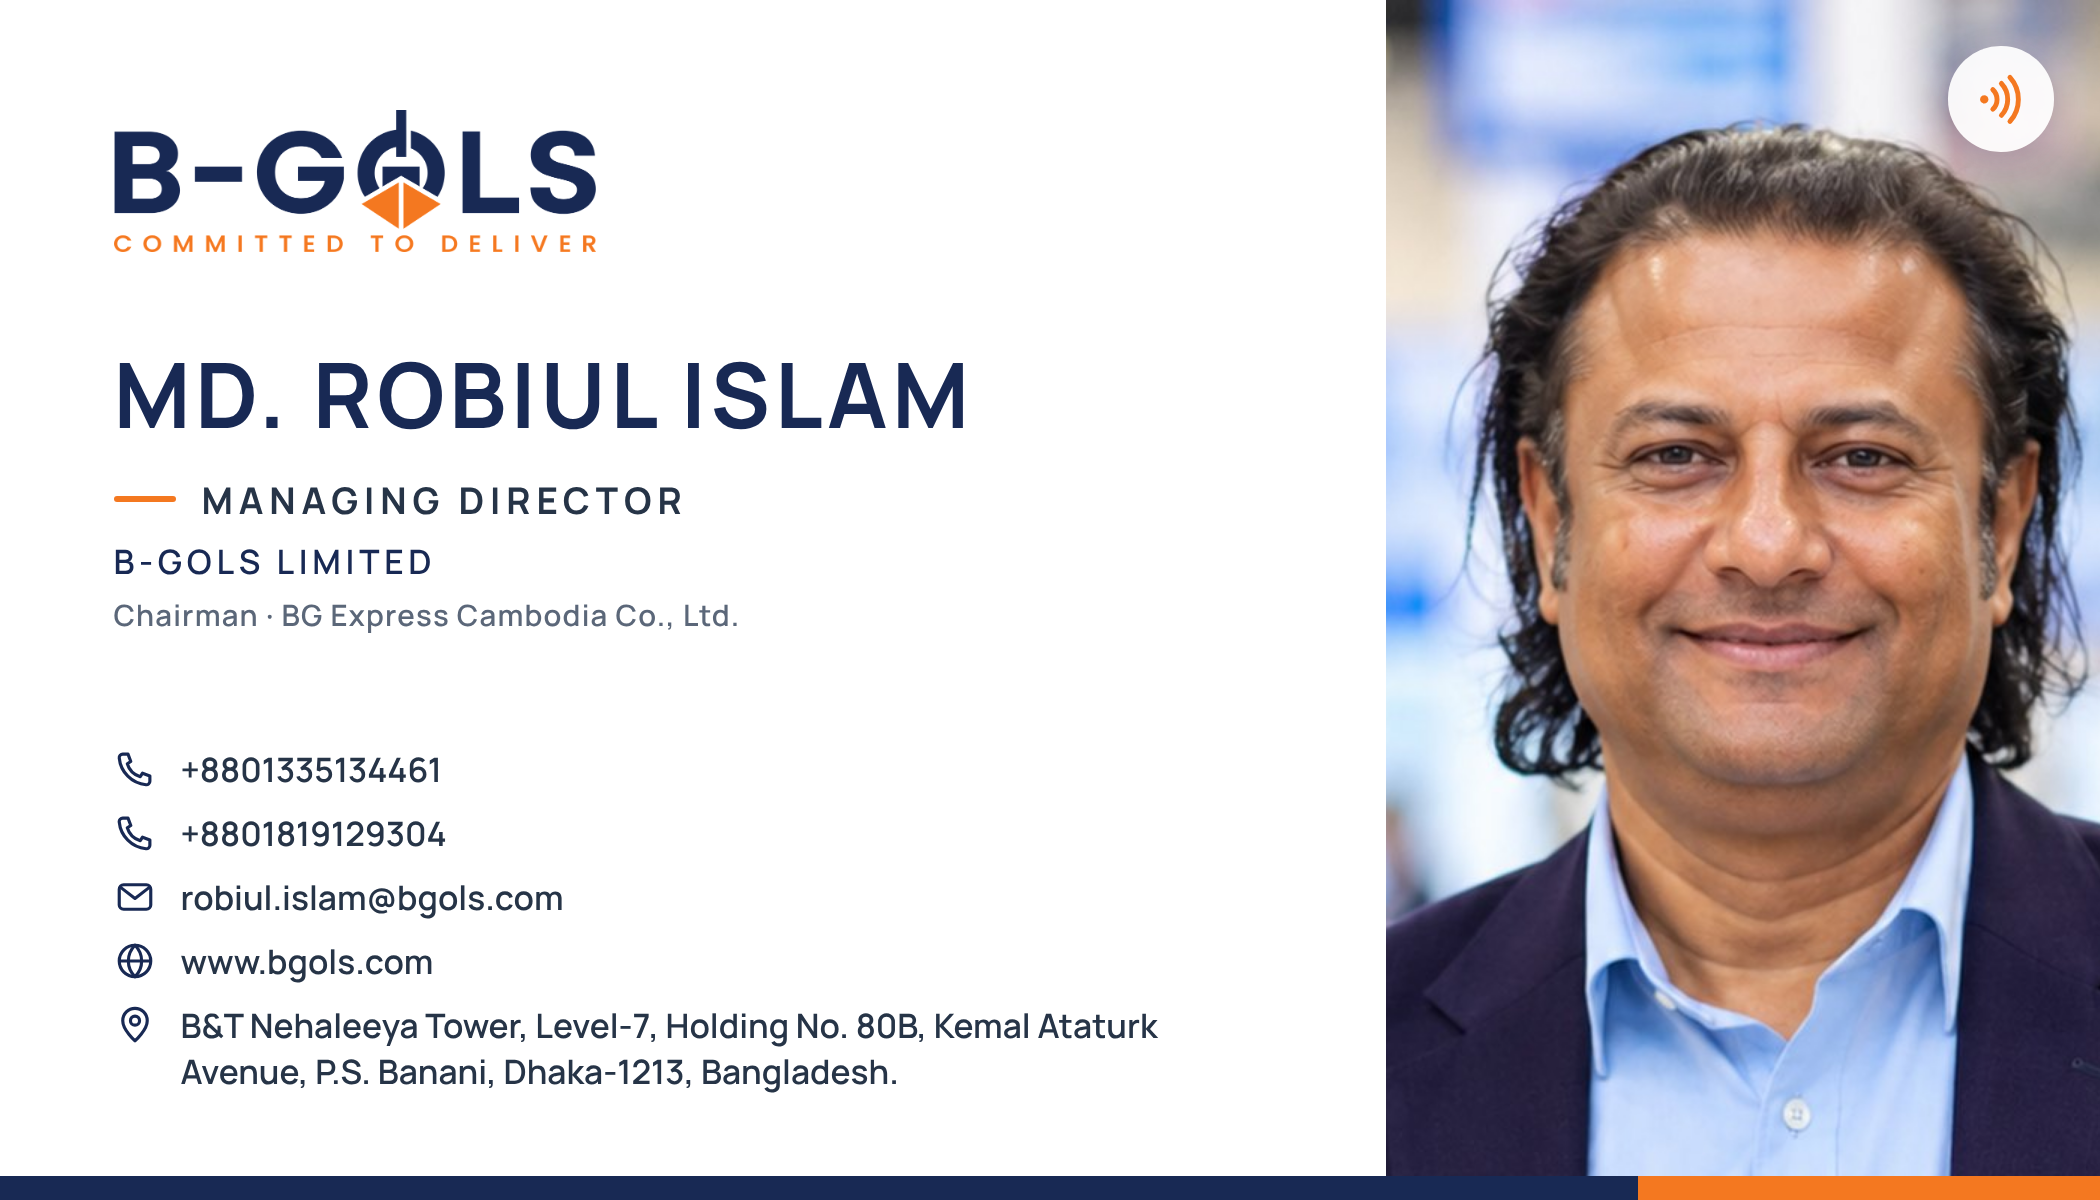
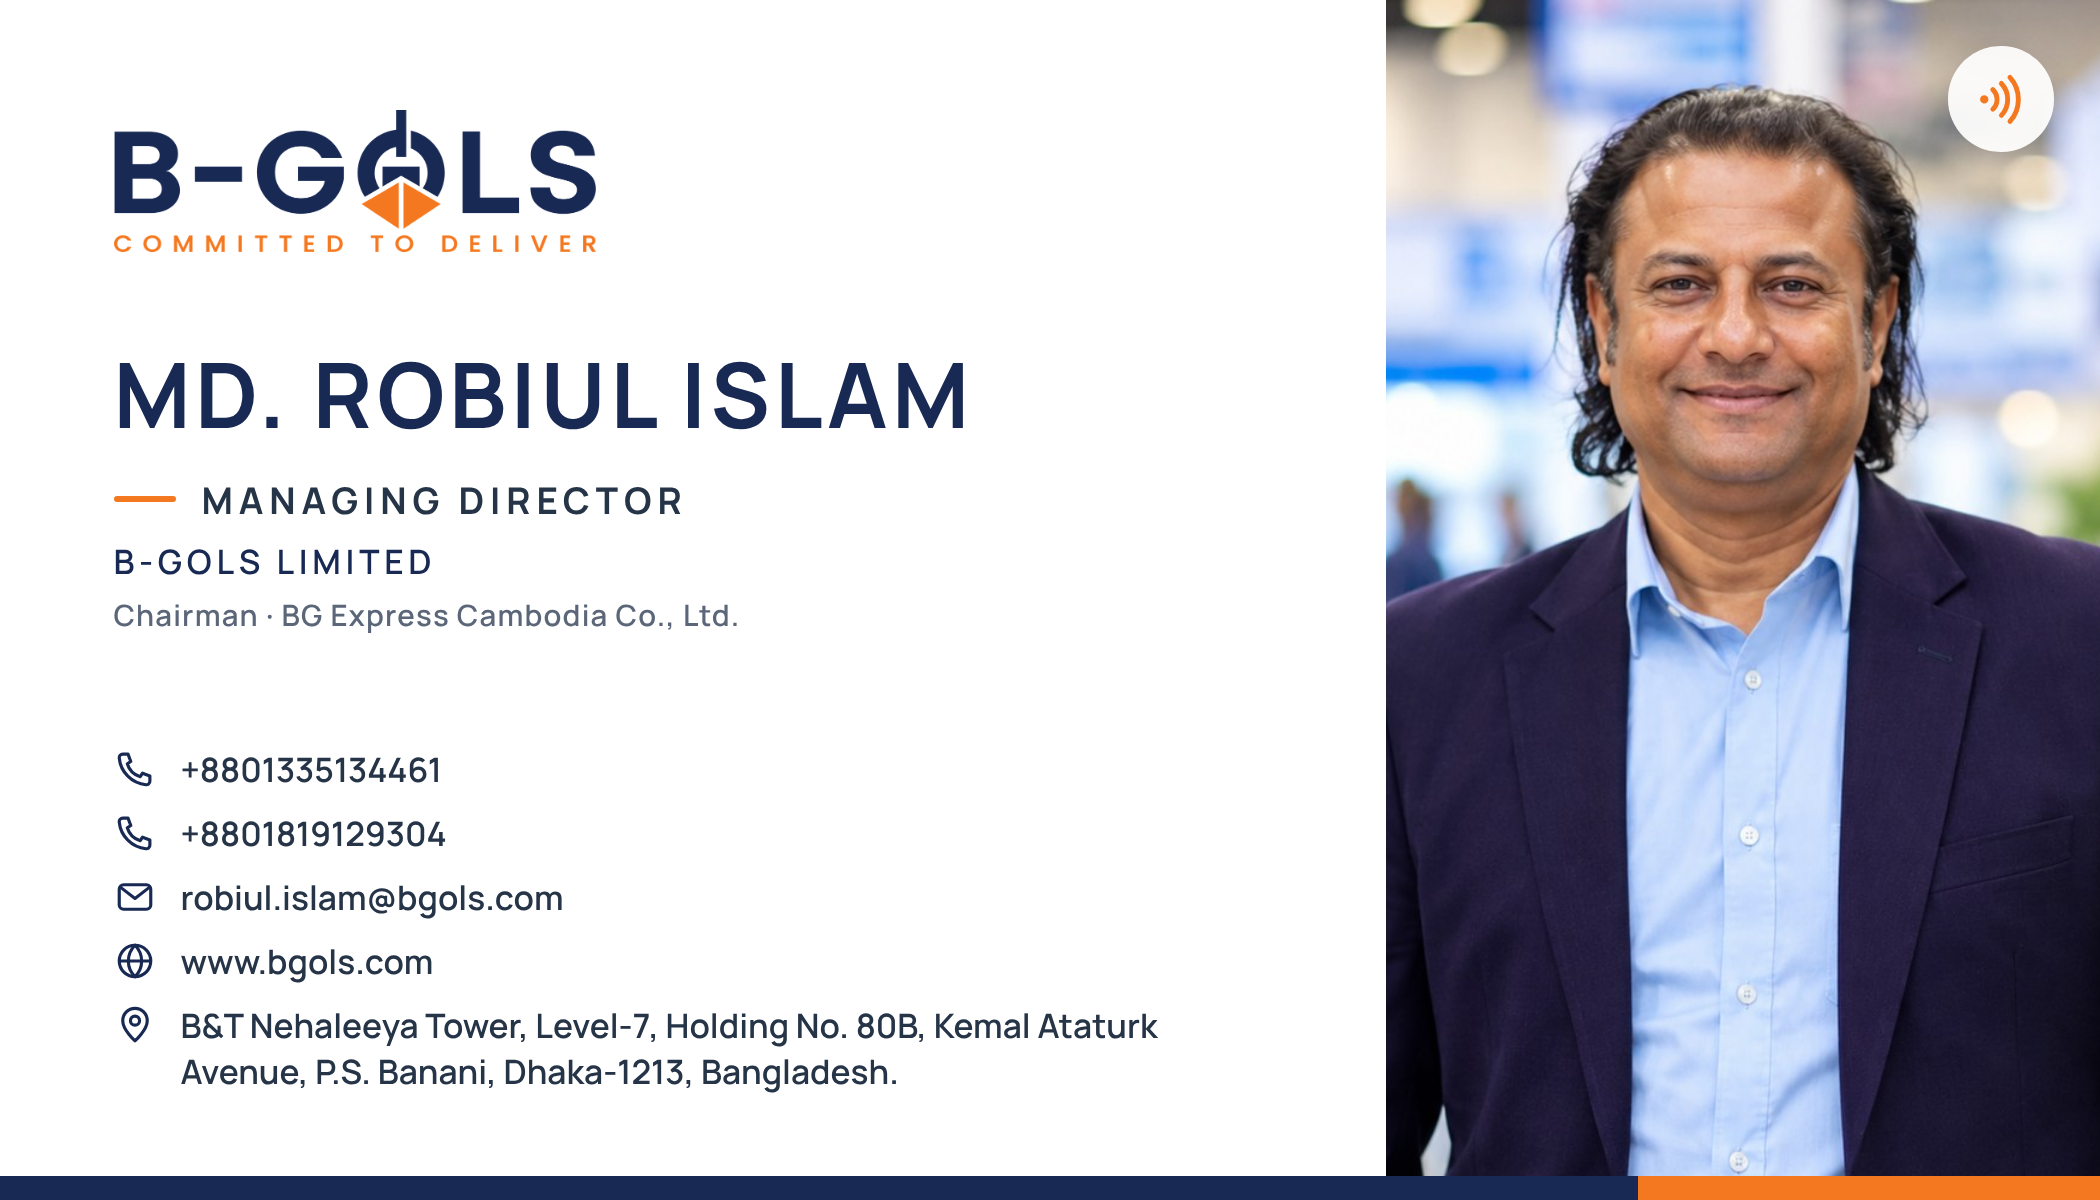
Printable card: re-crop portrait, centred with more headroom
Claude-Session: https://claude.ai/code/session_01TprP1ieCAEd2tQhQxghHUL

Changed region(s): [[0.65, 0.0, 1.0, 0.9867]]

diff --git a/card.html b/card.html
@@ -44,7 +44,7 @@
     .f-lines a, .f-lines p { display: flex; align-items: flex-start; line-height: 1.35; gap: 1.2cqw; }
     .f-lines svg { width: 2cqw; height: 2cqw; color: var(--navy); flex: none; }
     .f-right { position: relative; background: var(--ice); }
-    .f-right img { position: absolute; inset: 0; width: 100%; height: 100%; object-fit: cover; object-position: 50% 18%; }
+    .f-right img { position: absolute; inset: 0; width: 100%; height: 100%; object-fit: cover; object-position: 50% 30%; }
     .f-nfc { position: absolute; right: 2.2cqw; top: 2.2cqw; width: 5cqw; height: 5cqw; border-radius: 50%; background: rgba(255,255,255,.92);
       display: grid; place-items: center; color: var(--orange); box-shadow: 0 .4cqw 1.4cqw rgba(24,41,84,.2); }
     .f-nfc svg { width: 2.8cqw; height: 2.8cqw; }
@@ -105,7 +105,7 @@
           </div>
         </div>
         <div class="f-right">
-          <img src="assets/img/portrait-tall-600.jpg" alt="Portrait of Md. Robiul Islam" width="600" height="800">
+          <img src="assets/img/portrait-tall-600.jpg" alt="Portrait of Md. Robiul Islam" width="600" height="1000">
           <span class="f-nfc" aria-hidden="true"><svg><use href="#i-nfc"/></svg></span>
         </div>
       </div>

diff --git a/sw.js b/sw.js
@@ -3,7 +3,7 @@
 // Cache names carry this card's own prefix: two cards share the bgols-limited.github.io origin,
 // so each card must only ever delete its own old caches.
 const PREFIX = "robiul-card-";
-const VERSION = PREFIX + "v10";
+const VERSION = PREFIX + "v11";
 const CORE = [
   "./", "index.html", "card.html", "nfc-setup.html", "email-signature.html", "css/styles.css", "js/config.js", "js/app.js", "contact.vcf",
   "manifest.webmanifest",
